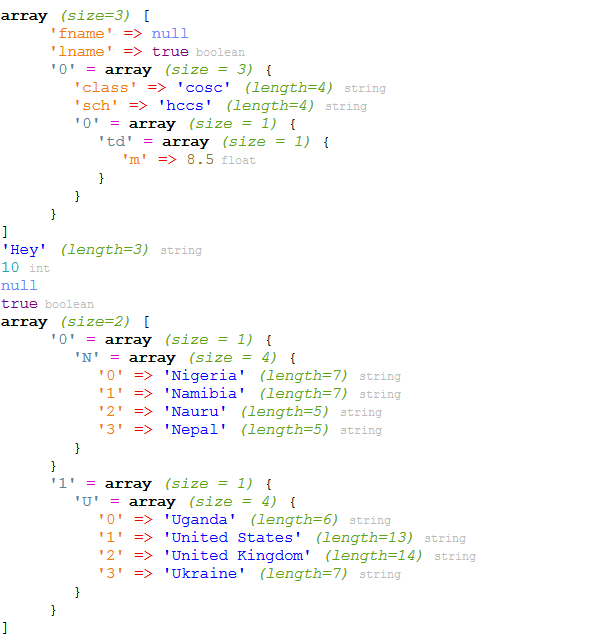
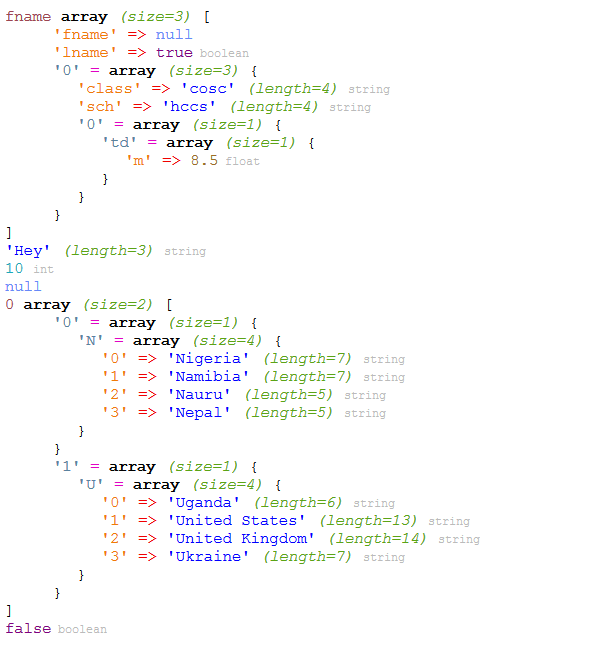
fix: infint loop

diff --git a/index.php b/index.php
@@ -2,6 +2,21 @@
 require 'function.php';
 $var = new Controls();
 
-$m['user'] = array('fname' => 'chrys', 'lname' => 'chiderah');
+$m = array('fname' => null, 'lname' => true);
+$c = array('class' => 'cosc', 'sch' => 'hccs', array('td' => array('m' => 8.5)));
+$m[] = $c;
+
+
+$country = array
+			(
+				array("N" => array('Nigeria', 'Namibia', 'Nauru', 'Nepal')),
+				array("U" => array('Uganda', 'United States', 'United Kingdom', 'Ukraine')),
+			);
+			
+			
+$yes = 'yes';
+$no = 'no';
+
 
 echo $var->dump($m, 'Hey', 10, null, true, $country);
+echo $var->dump($yes == $no);

diff --git a/function.php b/function.php
@@ -23,7 +23,7 @@ class Controls
     {
         $args = func_get_args();
         $dumped = '';
-        for ($i = 0; $i < $args; $i++) {
+        for ($i = 0; $i < count($args); $i++) {
             $data_type = gettype($args[$i]);
             if ($data_type == 'string') {
                 $length = strlen($args[$i]);

diff --git a/README.md b/README.md
@@ -11,15 +11,20 @@ $m[] = $c;
 
 
 $country = array
-  (
-  array("N" => array('Nigeria', 'Namibia', 'Nauru', 'Nepal')),
-  array("U" => array('Uganda', 'United States', 'United Kingdom', 'Ukraine')),
-  );
+			(
+				array("N" => array('Nigeria', 'Namibia', 'Nauru', 'Nepal')),
+				array("U" => array('Uganda', 'United States', 'United Kingdom', 'Ukraine')),
+			);
+			
+			
+$yes = 'yes';
+$no = 'no';
 
 #Note this take 1 to infinit arguments
 #   $var->dump($m ... );
 
 echo $var->dump($m, 'Hey', 10, null, true, $country);
+echo $var->dump($yes == $no);
 
 ```
 The above code outputs
